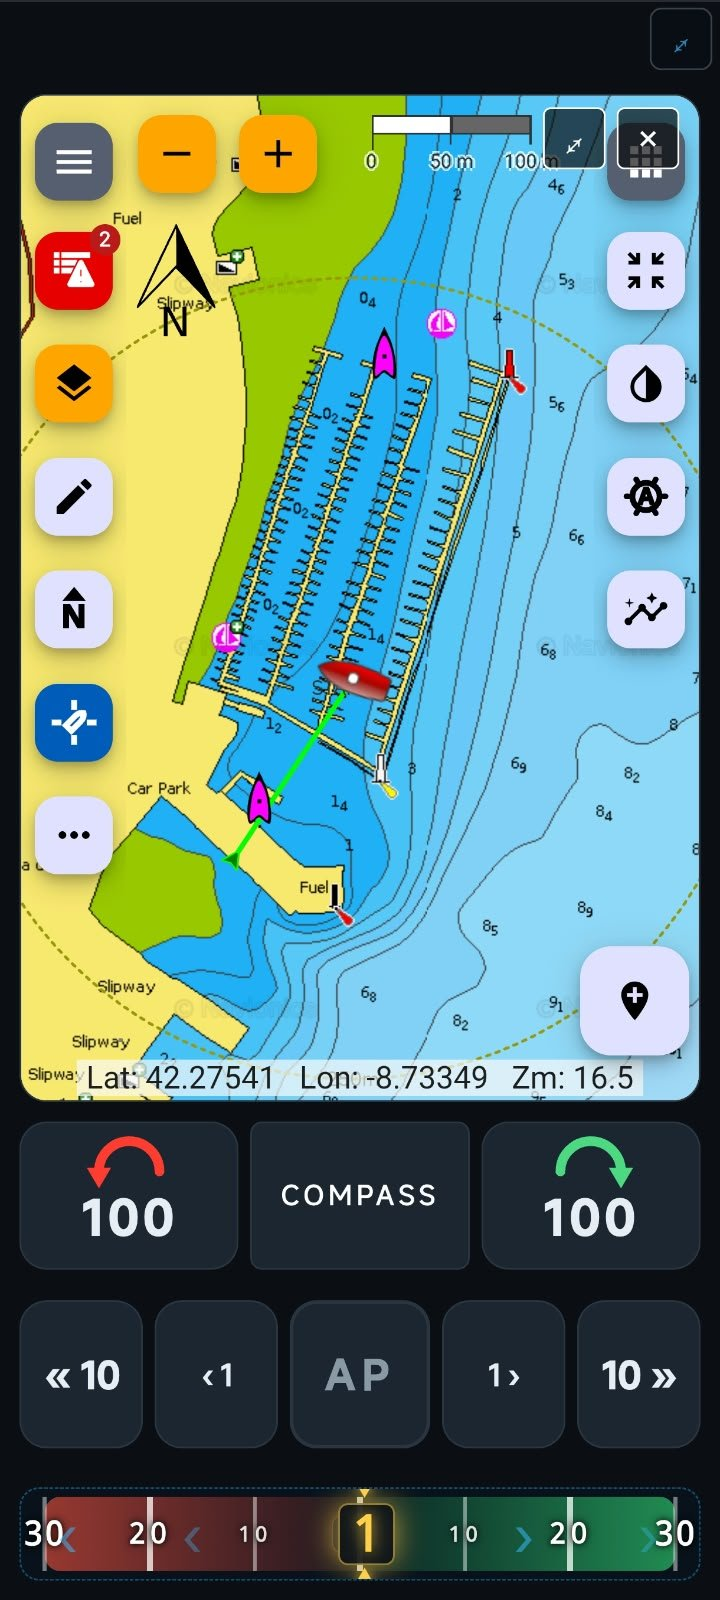
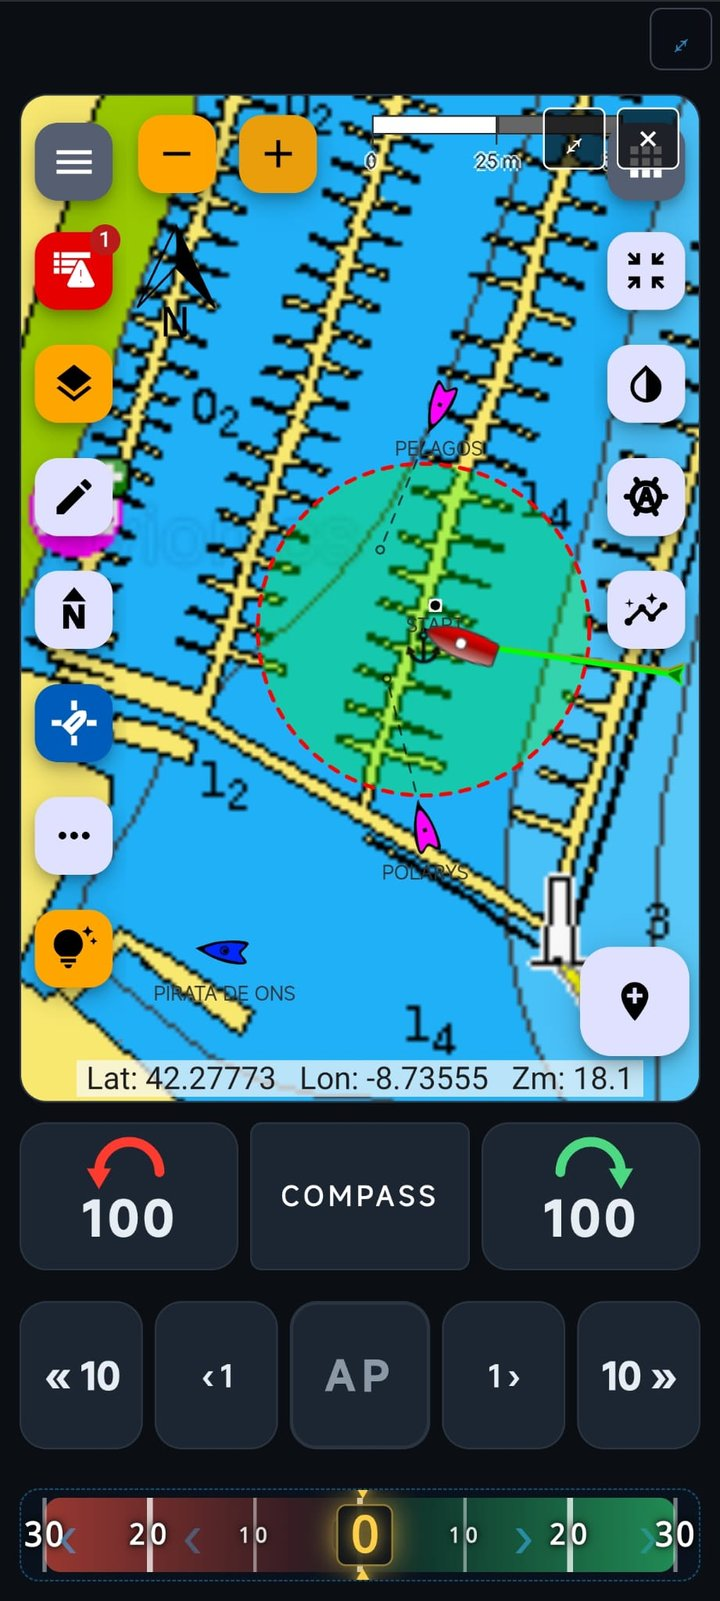
screenshots: 8 new App Store / README shots (rose+AIS, chart, AnchorWatch Pro in rose, tide, modes, tune, logbook, tack history), JPEG < 200 KB, old IP-bearing 05/06 removed

diff --git a/README.md b/README.md
@@ -74,17 +74,21 @@ up automatically.
 
 ## Screenshots
 
-![Control - compass rose with precision gauge + AIS collision target as a tinted top-view hull](https://raw.githubusercontent.com/Aitonos/signalk-pypilot-newui/main/public/screenshots/01-control-rose.jpg)
+![Control - compass rose with an AIS collision target on the compass ring](https://raw.githubusercontent.com/Aitonos/signalk-pypilot-newui/main/public/screenshots/01-control-rose.jpg)
 
-| Chartplotter embedded | Logbook · trip detail |
+| Chartplotter embedded | AnchorWatch Pro inside the rose |
 |---|---|
-| ![Chartplotter integrated - Freeboard-SK embedded in the rose box](https://raw.githubusercontent.com/Aitonos/signalk-pypilot-newui/main/public/screenshots/02-chartplotter-embedded.jpg) | ![Logbook trip detail - OpenSeaMap trace + SOG vs AWS chart](https://raw.githubusercontent.com/Aitonos/signalk-pypilot-newui/main/public/screenshots/03-logbook-trip-detail.jpg) |
+| ![Freeboard-SK embedded in the rose box](https://raw.githubusercontent.com/Aitonos/signalk-pypilot-newui/main/public/screenshots/02-chartplotter-embedded.jpg) | ![Anchor-watch visor of AnchorWatch Pro inside the rose](https://raw.githubusercontent.com/Aitonos/signalk-pypilot-newui/main/public/screenshots/03-anchorwatch-in-rose.jpg) |
 
-| Tune · gain sliders | Chart · hover freeze |
+| Tide at a glance | Modes · head to wind / downwind |
 |---|---|
-| ![Tune tab - PID gain sliders](https://raw.githubusercontent.com/Aitonos/signalk-pypilot-newui/main/public/screenshots/04-tune-sliders.jpg) | ![Chart - history window with hover freeze](https://raw.githubusercontent.com/Aitonos/signalk-pypilot-newui/main/public/screenshots/05-chart-history.jpg) |
+| ![Tide popup with the tide curve](https://raw.githubusercontent.com/Aitonos/signalk-pypilot-newui/main/public/screenshots/04-tide-popup.jpg) | ![Mode picker with Head to wind and Head downwind](https://raw.githubusercontent.com/Aitonos/signalk-pypilot-newui/main/public/screenshots/05-modes-head-to-wind-downwind.jpg) |
 
-![Tack history - persistent per-tack log](https://raw.githubusercontent.com/Aitonos/signalk-pypilot-newui/main/public/screenshots/06-tack-history.jpg)
+| Tune · gain sliders | Logbook · trip detail |
+|---|---|
+| ![Tune tab - PID gain sliders](https://raw.githubusercontent.com/Aitonos/signalk-pypilot-newui/main/public/screenshots/06-tune-sliders.jpg) | ![Logbook trip detail - track and SOG vs AWS chart](https://raw.githubusercontent.com/Aitonos/signalk-pypilot-newui/main/public/screenshots/07-logbook-trip-detail.jpg) |
+
+![Tack history - per-tack speed retention and recovery](https://raw.githubusercontent.com/Aitonos/signalk-pypilot-newui/main/public/screenshots/08-tack-history.jpg)
 
 ## What this plugin adds on top of pypilot
 

diff --git a/CHANGELOG.md b/CHANGELOG.md
@@ -71,8 +71,10 @@ settings, so nothing is lost.
   plugins named, Head-to-wind **and** Downwind pseudo-modes, every
   integration (AnchorWatch Pro, chartplotter, AIS, polars) in the intro,
   no invented plugins or path counts.
-- Screenshots as JPEG under 500 KB for the App Store; test files no
-  longer shipped in the package (64 → 47 files).
+- New App Store / README screenshots (8): rose with AIS, embedded chart,
+  AnchorWatch Pro inside the rose, tide popup, head to wind / downwind
+  modes, tune, logbook trip, tack history. JPEG under 500 KB each; test
+  files no longer shipped (package 3.4 MB → 1.4 MB).
 
 ## 3.2.0 — 2026-10-15 — AIS rose rebuilt on real positions, tide popup, chart kept warm
 
